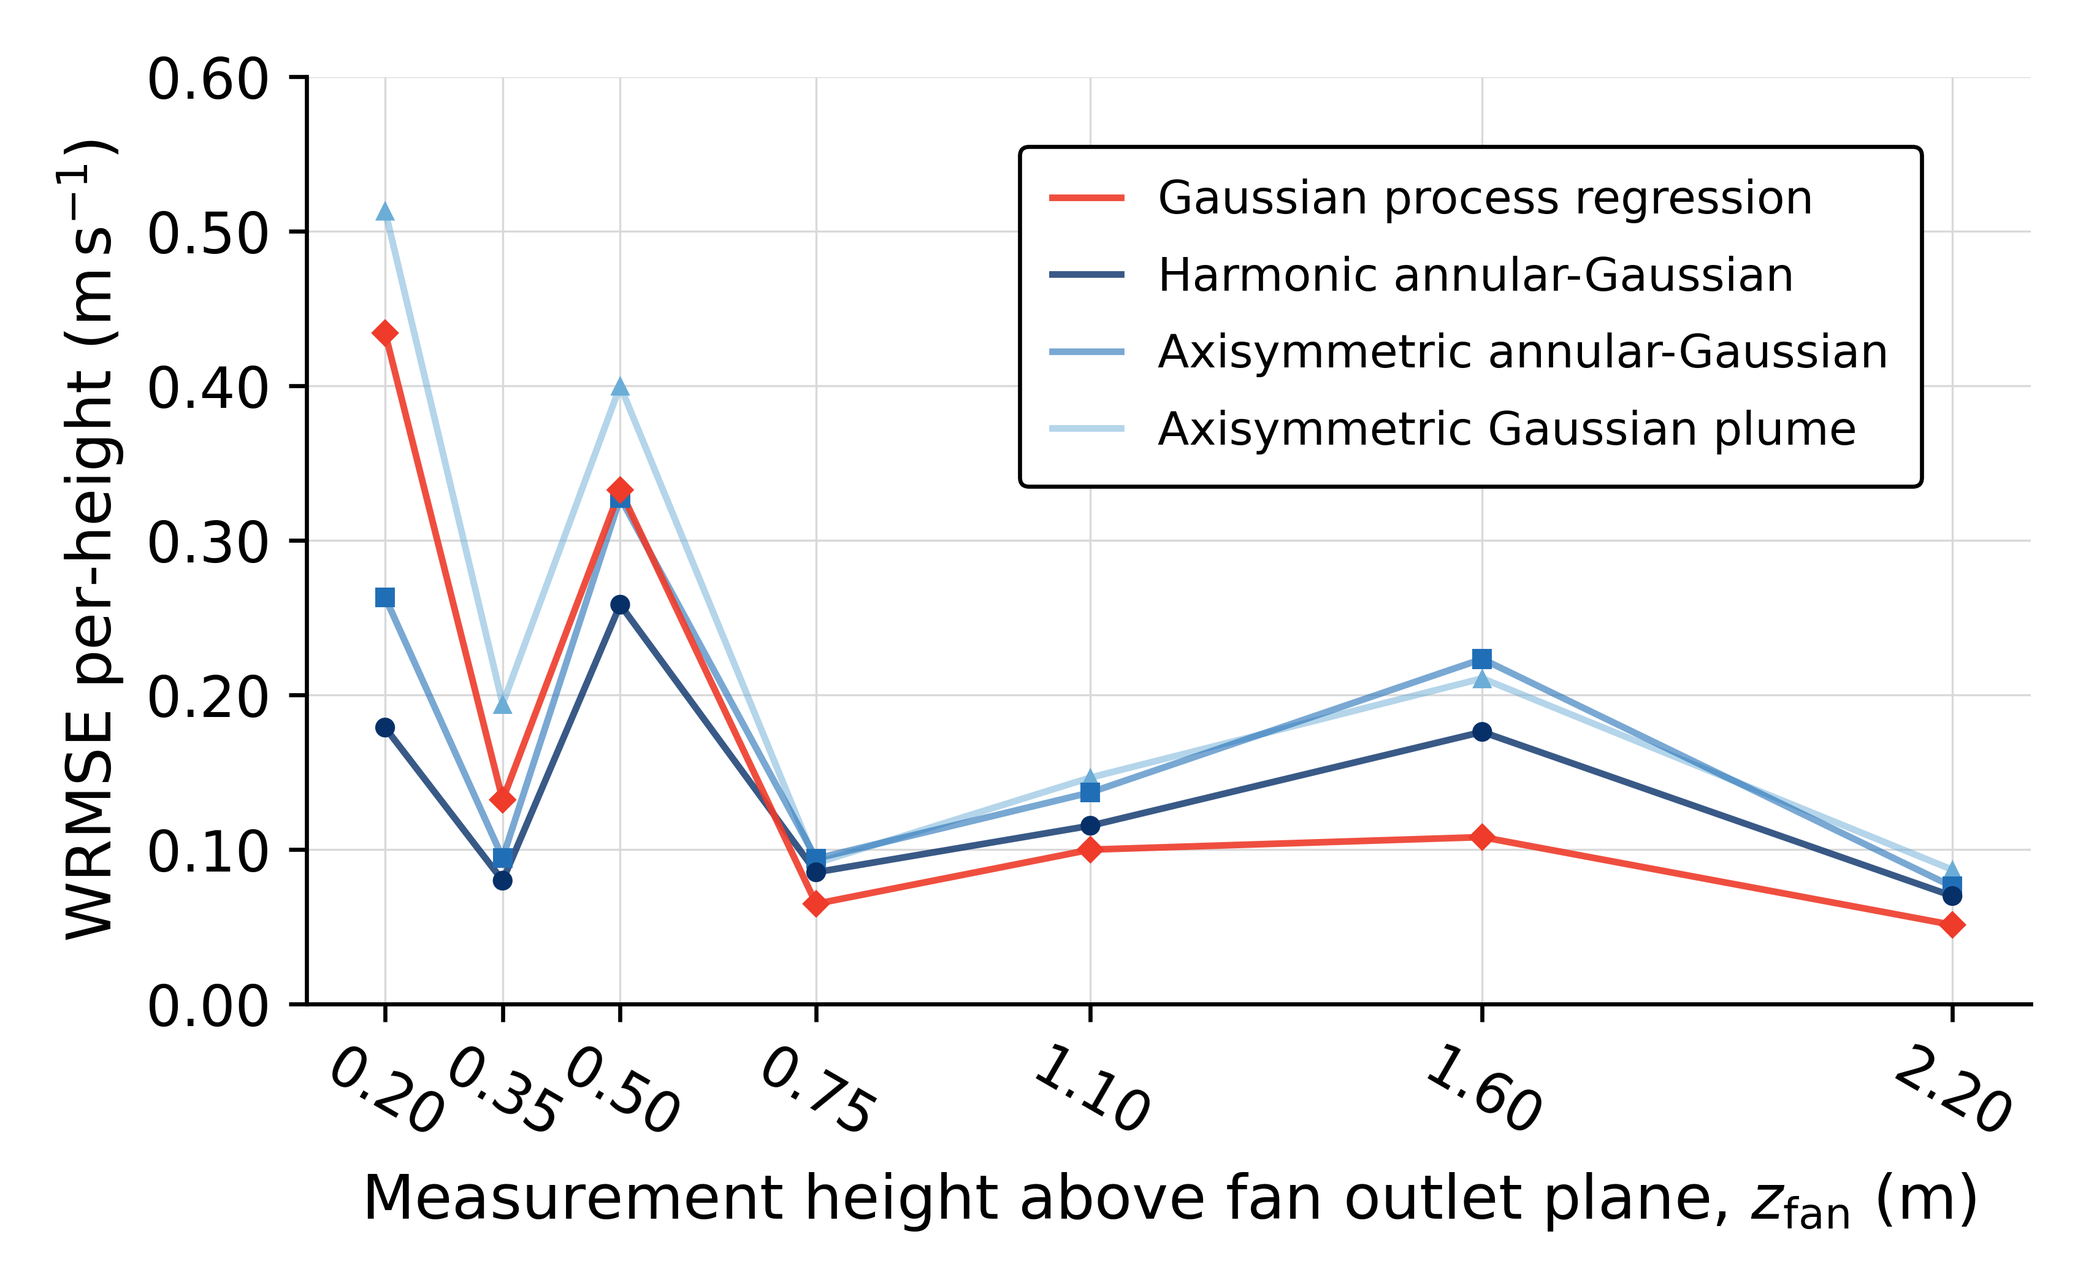
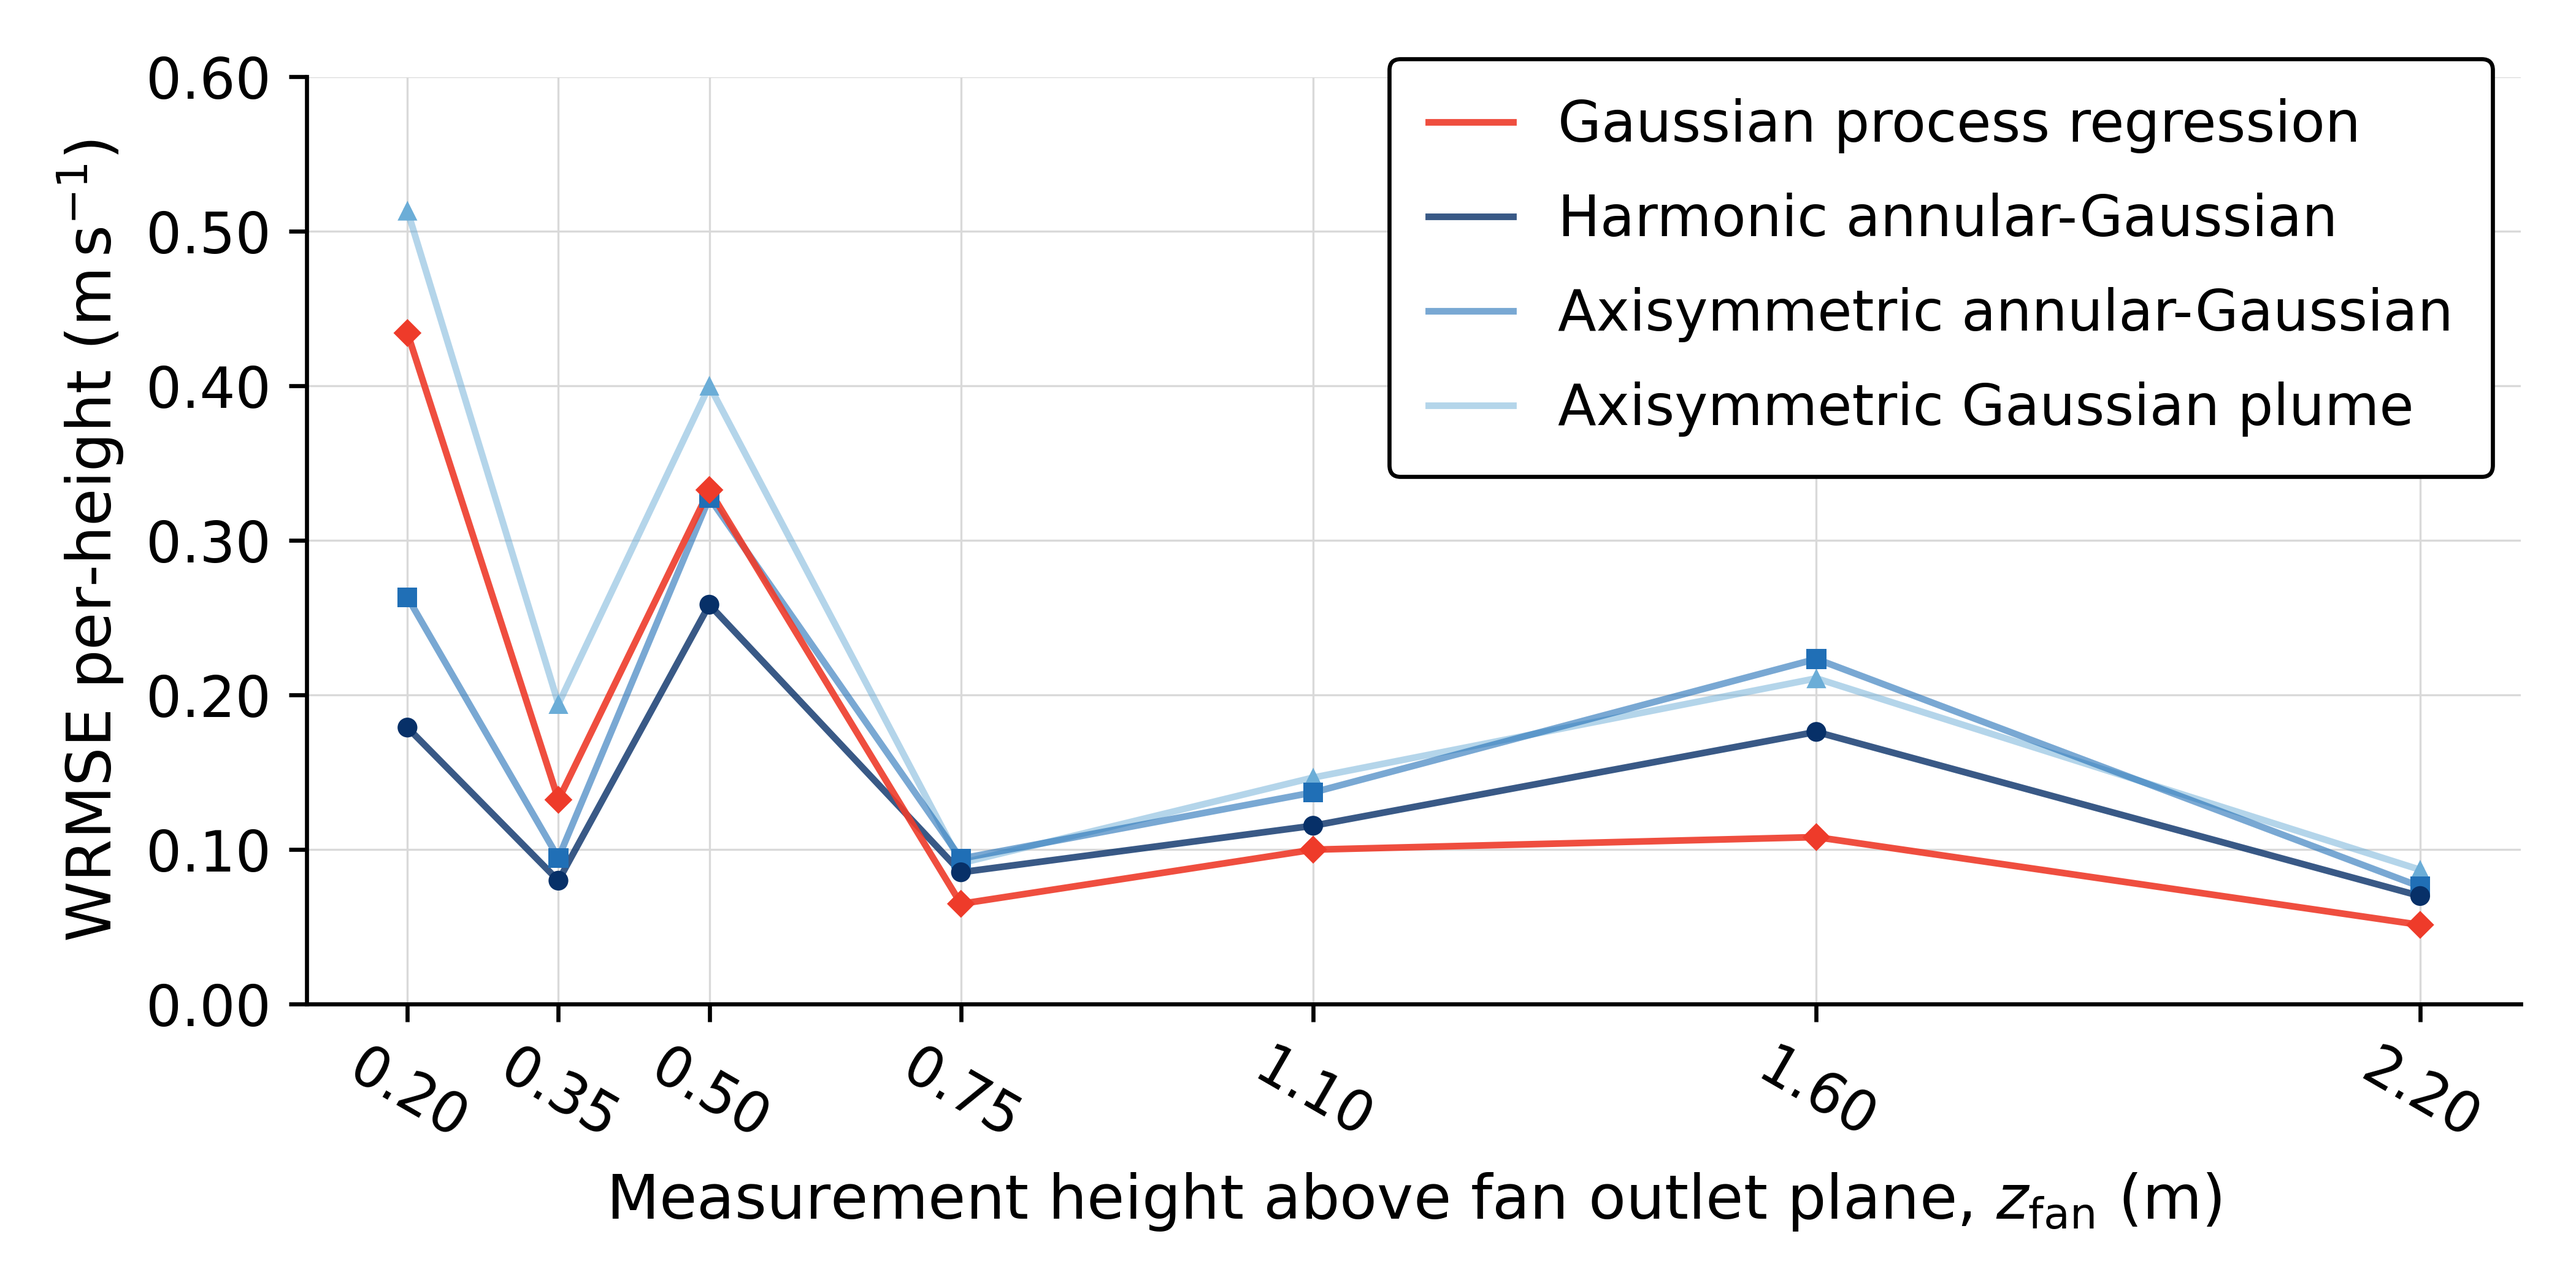
Thermal v3.4
- Python
- Minor update on the plotting

diff --git a/01_Thermal/four_fan_fitting_analysis.py b/01_Thermal/four_fan_fitting_analysis.py
@@ -10,11 +10,11 @@ from matplotlib.ticker import FormatStrFormatter
 
 
 # Legend styling
-LEGEND_FONT_SIZE = 9
+LEGEND_FONT_SIZE = 11
 AXIS_EDGE_LW = 0.80
 LEGEND_FRAME_LW = AXIS_EDGE_LW
 LEGEND_LOC = "upper right"
-LEGEND_BBOX_TO_ANCHOR = (0.95, 0.95)
+LEGEND_BBOX_TO_ANCHOR = (1.00, 1.05)
 LEGEND_HANDLE_LENGTH = 1.5
 LEGEND_BORDERPAD = 0.7
 LEGEND_LABEL_SPACING = 0.7
@@ -128,7 +128,7 @@ def plot_metric_2d(
     out_path: Path,
     y_limits: tuple[float, float],
 ):
-    fig, ax = plt.subplots(figsize=(5.67, 3.5), dpi=600)
+    fig, ax = plt.subplots(figsize=(7.0, 3.5), dpi=600)
     fig.patch.set_facecolor("white")
     ax.set_facecolor("white")
     ax.set_axisbelow(True)
@@ -271,5 +271,4 @@ def main():
 
 if __name__ == "__main__":
     main()
-
 

diff --git a/01_Thermal/single_fan_fitting_analysis.py b/01_Thermal/single_fan_fitting_analysis.py
@@ -10,11 +10,11 @@ from matplotlib.ticker import FormatStrFormatter
 
 
 # Legend styling
-LEGEND_FONT_SIZE = 9
+LEGEND_FONT_SIZE = 11
 AXIS_EDGE_LW = 0.80
 LEGEND_FRAME_LW = AXIS_EDGE_LW
 LEGEND_LOC = "upper right"
-LEGEND_BBOX_TO_ANCHOR = (0.95, 0.95)
+LEGEND_BBOX_TO_ANCHOR = (1.00, 1.05)
 LEGEND_HANDLE_LENGTH = 1.5
 LEGEND_BORDERPAD = 0.7
 LEGEND_LABEL_SPACING = 0.7
@@ -128,7 +128,7 @@ def plot_metric_2d(
     out_path: Path,
     y_limits: tuple[float, float],
 ):
-    fig, ax = plt.subplots(figsize=(5.67, 3.5), dpi=600)
+    fig, ax = plt.subplots(figsize=(7.0, 3.5), dpi=600)
     fig.patch.set_facecolor("white")
     ax.set_facecolor("white")
     ax.set_axisbelow(True)
@@ -271,5 +271,4 @@ def main():
 
 if __name__ == "__main__":
     main()
-
 
